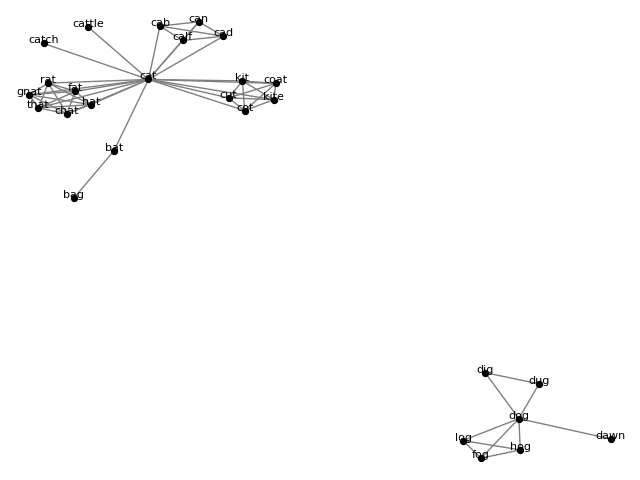
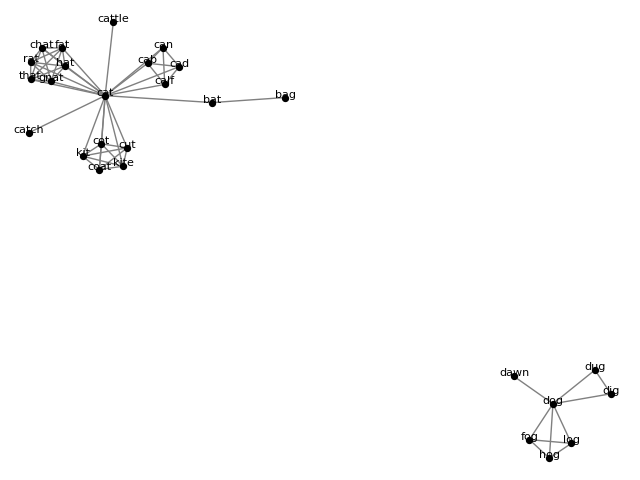
Uncommented out graph code and handed in

Changed region(s): [[0.0312, 0.0312, 0.4688, 0.4375], [0.7188, 0.75, 0.9688, 0.9688], [0.9062, 0.75, 0.9375, 0.7812]]

diff --git a/Assignments/A2/A2.py b/Assignments/A2/A2.py
@@ -25,6 +25,7 @@ def main():
           f"\t - {removed_components[4]} \n")
     print(len(removed_components))
 
+
 def components(nodes_list):
     return_components = []
     for nodes in nodes_list:
@@ -32,6 +33,7 @@ def components(nodes_list):
         graph_r.remove_node(nodes)
         return_components.append(list(nx.connected_components(graph_r)))
     return return_components
+
 
 def reduce_least_density(nodes_list):
     difference = 0
@@ -57,16 +59,16 @@ def disconnected(graph):
         graph_r.remove_node(node)
         if not nx.is_connected(graph_r):
             return_nodes.append(node)
-            # nx.draw(graph_r,
-            #         with_labels=True,
-            #         node_color='black',
-            #         node_size=18,
-            #         font_size=8,
-            #         verticalalignment='baseline',
-            #         edge_color='grey')
-            # plt.title(f"Removed node {node}")
-            # plt.savefig(f'{node}.png')
-            # plt.show()
+            nx.draw(graph_r,
+                    with_labels=True,
+                    node_color='black',
+                    node_size=18,
+                    font_size=8,
+                    verticalalignment='baseline',
+                    edge_color='grey')
+            plt.title(f"Removed node {node}")
+            plt.savefig(f'{node}.png')
+            plt.show()
 
     return return_nodes
 
